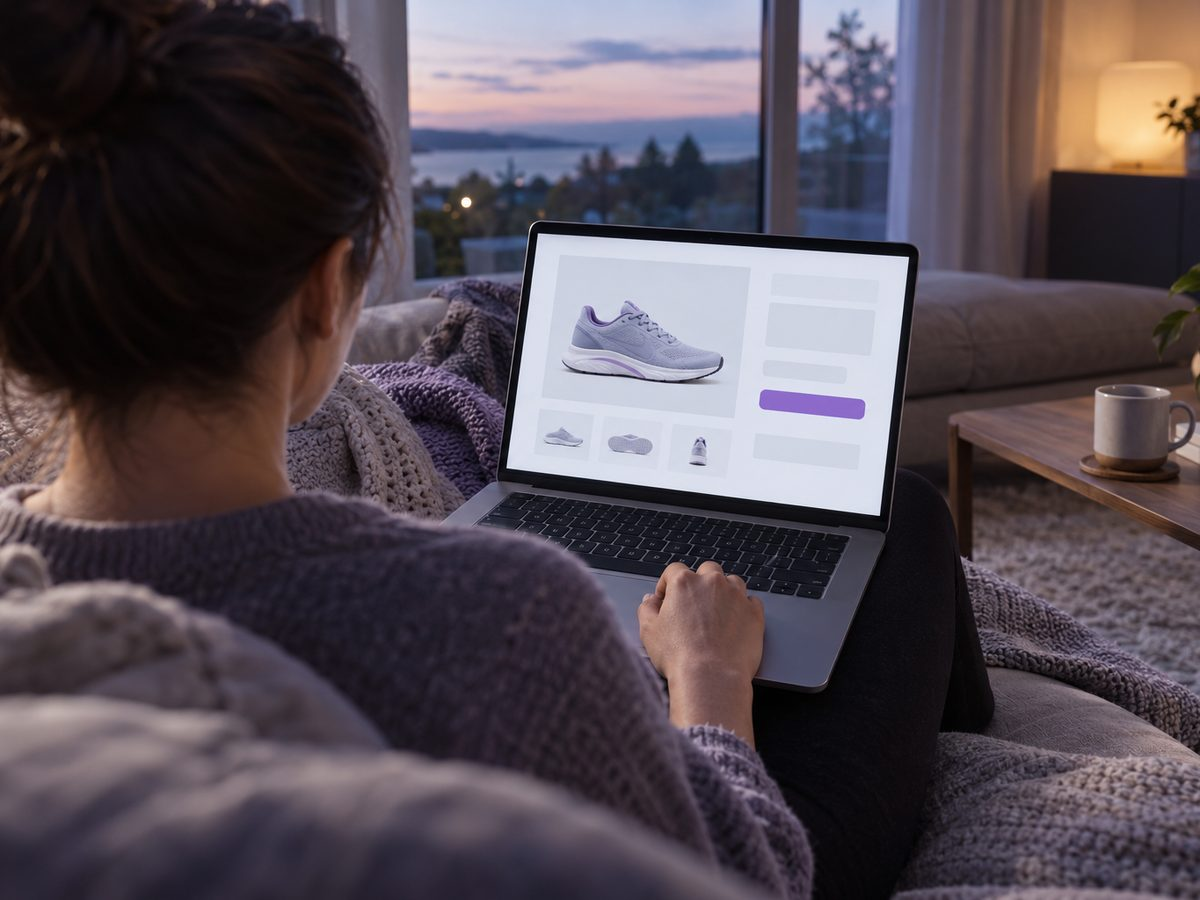
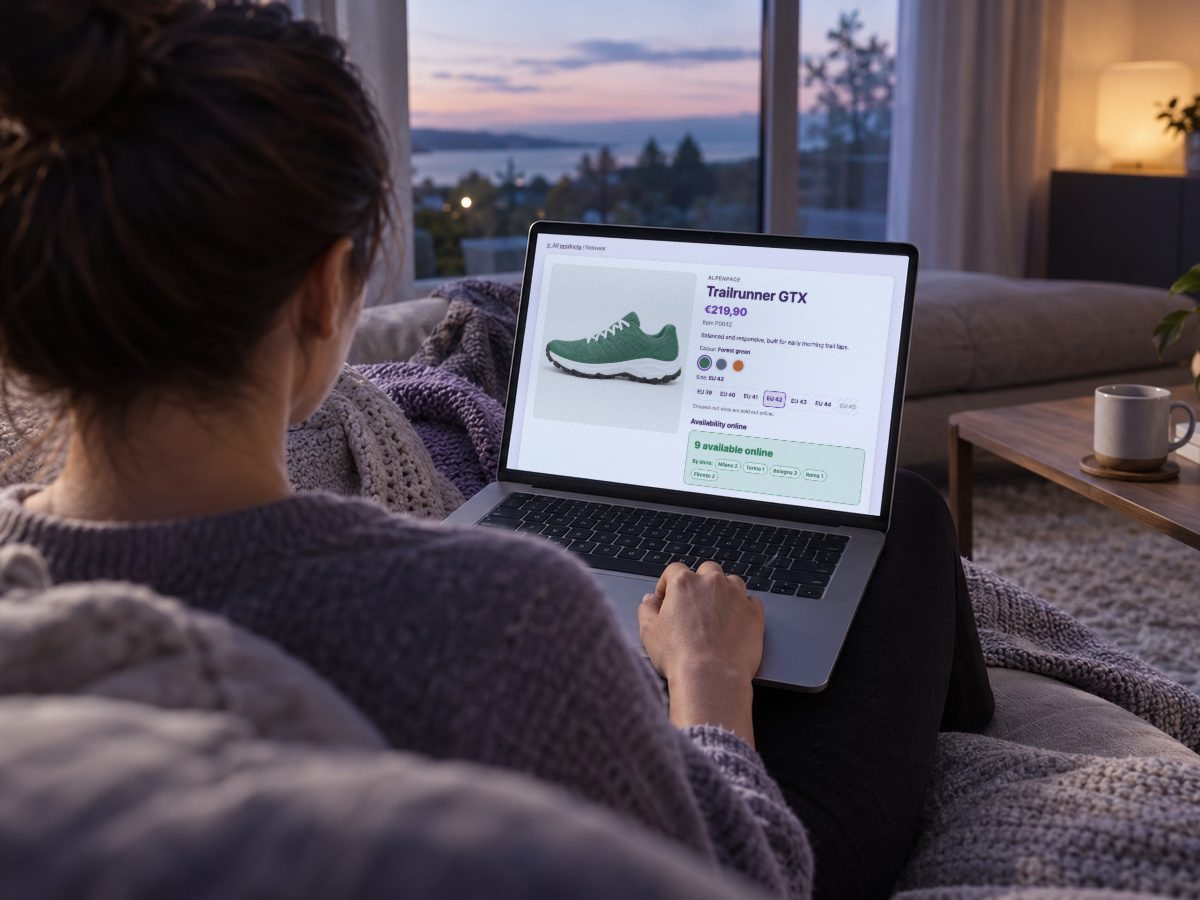
Landing page photos show the real online shop and Datadog dashboard

Changed region(s): [[0.4317, 0.28, 0.74, 0.56], [0.4625, 0.2489, 0.4933, 0.28], [0.4317, 0.3111, 0.4625, 0.3422]]

diff --git a/workshop/site/images/SOURCES.md b/workshop/site/images/SOURCES.md
@@ -13,3 +13,13 @@ Common style for every prompt: photorealistic editorial photo, modern sportswear
 | spot-canary.jpg | Ship a release safely | A person from behind on a sofa completing an online shoe purchase on a laptop |
 | spot-shelves.jpg | Shelves refill on time | A store worker from behind placing shoe boxes on a nearly empty shelf, a trolley of plain boxes beside them |
 | spot-dashboard.jpg | See it all in Datadog | Two colleagues from behind looking at an abstract monitoring dashboard on a wall screen |
+
+## Screens showing this project's real UI
+
+`spot-stock.jpg`, `spot-canary.jpg` and `spot-dashboard.jpg` keep the AI-generated scenes above, but the phone, laptop and wall screens show real screenshots of this project, composited with a 4-point perspective warp, a rounded screen mask, brightness matched to the original screen and the people or fingers kept in front (2026-10-06):
+
+| File | Screen content | Source |
+|---|---|---|
+| spot-stock.jpg | Online shop product page, mobile layout (P0042, 9 available online) | Storefront screenshot at phone width, captured for this project |
+| spot-canary.jpg | Online shop product page, desktop layout | Storefront screenshot at desktop width, captured for this project |
+| spot-dashboard.jpg | Datadog stock dashboard, Freshness group | `workshop/img/lab1-07-freshness-group.png` (already redacted), guide annotation boxes removed |
